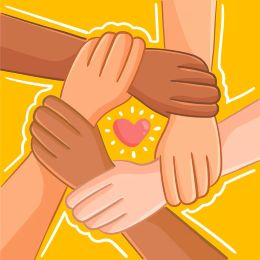
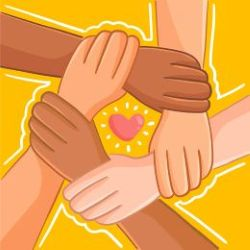
bric 4

diff --git a/index.html b/index.html
@@ -87,11 +87,11 @@
 
     <section class="flex">
 
-        <img class="marginleft2" src="asset/entraide.jpg" alt="">
+        <img class="marginleft3" src="asset/entraide.jpg" alt="">
 
         <div class="flex margin-bottom">
 
-            <h3 class="marginleft5 text-align-center margin-top-50">
+            <h3 class="marginleft5 margin-top-50">
 
                 <u class="colorwhite2">
 
@@ -101,7 +101,7 @@
 
             </h3>
 
-            <img class="margin-top-30 marginleft3" src="asset/solidarité.jpg" alt="">
+            <img class="margin-top-30 marginleft6" src="asset/solidarité.jpg" alt="">
 
         </div>
 
@@ -173,7 +173,7 @@
 
         </div>
 
-        <img class="marginleft2" src="asset/entraide escalade.jpg" alt="">
+        <img class="marginleft2 margin-bottom" src="asset/economie circulaire vert.jpg" alt="">
 
     </section>
 
@@ -222,13 +222,13 @@
 
         <section class="">
 
-            <img class="margin-top-30" src="asset/solidarité terre.jpg" alt="">
+            <img class="margin-top-30" src="asset/concierge_FR.png" alt="">
 
         </section>
 
         <section class="flex ">
 
-            <div class="margin-top-30 marginleft">
+            <div class="margin-top-30">
 
                 <h3 class="">
 

diff --git a/style.css b/style.css
@@ -56,7 +56,11 @@ h2 {
 }
 
 .marginleft5{
-    margin-left: 90px;
+    margin-left: 120px;
+}
+
+.marginleft6{
+    margin-left: 100px;
 }
 
 .margin-bottom {
